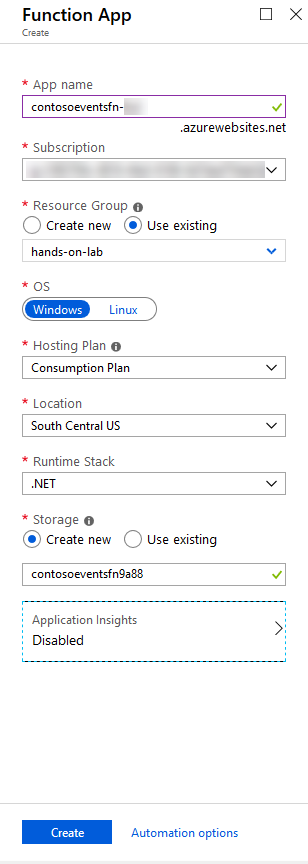
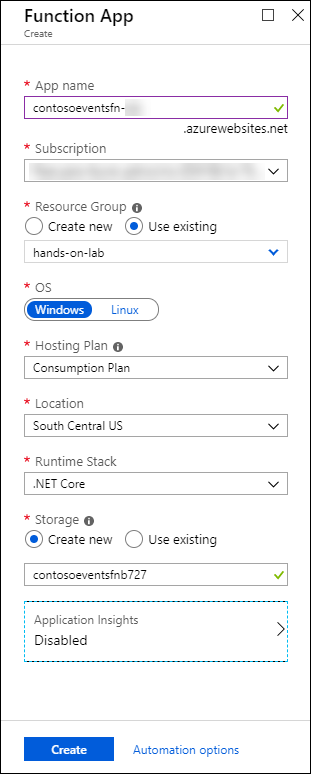
Added the Azure Function set up exercise

diff --git a/Hands-on lab/HOL step-by-step - Microservices architecture - Developer edition.md b/Hands-on lab/HOL step-by-step - Microservices architecture - Developer edition.md
@@ -266,7 +266,7 @@ In this task, you will provision a Function App using a Consumption Plan. By usi
 
     f.  Location: Select the same location as the hands-on-lab resource group.
 
-    g.  Runtime Stack: **.NET**
+    g.  Runtime Stack: **.NET Core**
 
     h.  Storage: Leave Create new selected, and accept the default name.
 
@@ -434,7 +434,7 @@ In this exercise, you will create the Docker images for each of the microservice
 
 1.  In Visual Studio, open the Dockerfile located in the ContosoEvents.Api.Events project.
 
-2.  The Dockerfile contains all the required steps to build the Docker image for the Events microservice.  As you can see in the first line of code, it is based on the mcr.microsoft.com/dotnet/core/aspnet:2.2-stretch-slim Linux-based Docker image.  In the other hand, it uses the mcr.microsoft.com/dotnet/core/sdk:2.2-stretch image to compile and publish the Events microservice project.
+2.  The Dockerfile contains all the required steps to build the Docker image for the Events microservice.  As you can see in the first line of code, it is based on the mcr.microsoft.com/dotnet/core/aspnet:2.2-stretch-slim Linux-based Docker image.  On the other hand, it uses the mcr.microsoft.com/dotnet/core/sdk:2.2-stretch image to compile and publish the Events microservice project.
 
 3.  Open the Dockerfile located in the ContosoEvents.Api.Orders project.
 
@@ -579,7 +579,125 @@ In this exercise, you will publish the Service Fabric Application to the Azure c
 
 4.  From the Visual Studio output window, validate that the deployment has completed successfully before moving on to the next task.
 
-### Task 7: Test the Events microservice by using Swagger
+## Exercise 5: Set up the Function
+
+### Task 1: Set up the function
+
+In this task, you will create a function that will be triggered by the externalization queue we created for the app. Each order that is deposited to the queue by the Orders microservice  will trigger the ProcessOrderExternalizations function. The function then persists the order to the Orders container of the Cosmos DB instance.
+
+1.  There appears to be an issue with Azure Functions detecting Storage accounts, so before creating your function, you will manually add your Storage account connection string to the Application Settings for your Function App.
+
+2.  In the Azure portal, browse to the Storage Account you created in Exercise 1, Step 5, then select Access keys under Settings on the side menu, and copy the key1 Connection String value, as you did previously.
+
+    ![In the Azure Portal, under Settings, Access keys is circled. Under Default keys, the key 1 connection string and its copy button are circled.](media/image102.png "Azure Portal")
+
+3.  Now, browse to the Function App you created in Exercise 1, Step 4.
+
+4.  Select your Function App in the side menu, then select Configuration under Configured features.
+
+    ![In the Function Apps pane, in the left column, contosoeventsfn-SUFFIX is circled. In the right, Overview column, under Configured features, Application settings is circled.](media/image103.png "Function Apps pane")
+
+5.  On the Application Settings tab, select **+New application setting**, then enter **contosoeventsstore** in the name textbox, and paste the key1 Connection String value you copied from your Storage account into the value textbox.
+
+    ![On the Application settings tab, contosoeventsstore and its corresponding connection string value are circled. At the bottom, the New application setting button is circled.](media/image104.png "Application settings tab")
+
+6.  Scroll back to the top of the Application Settings tab, and select Save to apply the change.
+
+    ![Screenshot of the Save button](media/image105.png "Save button")
+
+7.  From the menu, place your mouse cursor over Functions, then select the + to the side of Functions.
+
+    ![In the Function Apps section, Functions is selected, and the Plus symbol to its right is circled.](media/image106.png "Function Apps section")
+
+8.  Select **In-portal** as the development environment in the getting started blade, and select the **Continue** button.
+
+    ![In the getting started Choose a Development Environment step, In-portal is circled](media/create-function-choose-env.png "Getting started page")
+    
+
+9.  Select **More templates** and then select the **Finish and view templates** button.
+
+    ![More templates is circled and the Finish and view templates button is selected.](media/view-more-templates.png "View more function templates")
+
+10. Select **Azure Queue Storage trigger** and then select install when the warning that extensions are required is displayed.
+
+    ![Azure Queue Storage is circled and Install is selected within the extensions required warning screen.](media/install-extensions-warning.png "Install Queue Storage Extensions")
+
+    a. Continue to install any additional extensions required.
+
+11.  In the New Function blade, enter the following:
+    
+   a.  Name: **ProcessOrderExternalizations**
+    
+   b.  Queue name: **contosoevents-externalization-requests**
+
+   c.  Storage account connection: Select **contosoeventsstore**
+   
+   d.  Select **Create**
+    
+![The values above are entered into the Azure Queue Storage trigger settings.](media/create-queue-storage-trigger.png  "Queue trigger settings")
+
+12. Under the ProcessOrderExternalizations function, select **Integrate**.
+
+    a. On the Integrate screen, set Message parameter name to **orderItem**
+
+    b. Select **Save**.
+
+    ![The Message parameter name is set to orderItem and Save is circled. ](media/integrate-screen.png "Integrate screen")
+
+13. While still on the Integrate screen, select **+New Output**.
+
+    ![On the Integrate Screen, under Outputs, + New Output is circled.](media/image117.png "Integrate Screen")
+
+14. In the outputs box, locate and select **Azure Cosmos DB**, then choose **Select**.
+
+    ![In the Azure Cosmos DB output window, next to the Azure Cosmos DB account connection field, the Select button is circled.](media/image118.png "Azure Cosmos DB output window")
+
+ > **Note**: If prompted to install extensions, Select **Install** and wait for the extensions to finish installing.
+
+15. On the Azure Cosmos DB output screen, enter the following:
+
+    a.  Document parameter name: Enter **orderDocument**
+    
+    b.  Use function return value: Leave unchecked.
+
+    c.  Collection Name: Enter **Orders**
+
+    d.  Partition key: Leave empty.
+
+    e.  Database name: Enter **TicketManager**
+
+    f.  Azure Cosmos DB account connection: Select **new** next to the text box, and select the Cosmos DB you created in Exercise 1, Task 6.
+    
+    g.  Collection throughput: Leave empty.
+
+    ![Screenshot of Azure Cosmos DB output window with the values specified above entered into the fields.](media/cosmos-db-output-window.png "Azure Cosmos DB output window")
+   
+    f.  Select **Save**. You should now see an Azure Queue Storage trigger and an Azure Cosmos DB output on the Integrate screen.
+
+    ![In the Integrate window, the fields under both Triggers and Outputs are circled. ](media/image120.png "Integrate window")
+
+16. Next, select your function from the side menu.
+
+    ![Under Functions, ProcessOrderExternailizations is circled.](media/image121.png "Functions section")
+
+17. Now, you will retrieve the code for the function from a file in Visual Studio.
+
+18. In Visual Studio, go to Solution Explorer, and locate ProcessTicketOrderExternalizationEvent.cs in the Azure Functions folder.
+
+    ![In Solution Explorer, under Azure Functions, ProcessTicketOrderExternalizationEvent.cs is circled.](media/image122.png "Solution Explorer")
+
+19. Select all the code in that file (CTRL+A) and copy (CTRL+C) it.
+
+20. Return to your function's page in the Azure portal, and replace the code in the run.csx block with the code you just copied from Visual Studio. The run.csx code should now look like the following. Note: The ProcessOrdersExternalization function will enable you to process another order, and see that it is saved to the Orders collection of the Cosmos DB.
+
+    ![Code that was copied from Visual Studio displays in the Run.csx block.](media/image123.png "Azure Portal, Run.csx block")
+
+21. Select **Save**
+
+## Exercise 6: Placing ticket orders
+
+
+### Task 1: Test the Events microservice by using Swagger
 
 In this task, you will test the events retrieval from the application deployed in the hosted Service Fabric Cluster.
 
@@ -595,7 +713,7 @@ In this task, you will test the events retrieval from the application deployed i
 
     ![On the Swagger Endpoint webpage for Contoso Events API - Events, Execute button is circled.](media/image137.png "Swagger Endpoint webpage")
 
-### Task 8: Test the Orders microservice by using Swagger
+### Task 2: Test the Orders microservice by using Swagger
 
 In this task, you will test the orders creation from the application deployed in the hosted Service Fabric Cluster.
 
@@ -636,7 +754,7 @@ In this task, you will test the orders creation from the application deployed in
     > Note: In order to write to the Cosmos DB database, the Azure Function must be running.
 
 
-## Exercise 5: API Management
+## Exercise 7: API Management
 
 Duration: 15 minutes
 
@@ -686,7 +804,7 @@ In this task, you will import the Events API description to your API Management 
 
     > **Note**: After saving, notice the URL under "Base URL". You will use this URL in your website configuration in the next exercise.
     
-### Task 2:  Import Orders API
+### Task 2: Import Orders API
 
 In this task, you will import the Orders API description to your API Management service to create an endpoint.
 
@@ -772,7 +890,7 @@ In this task, you will provide the API Management key in a setting for the Funct
 5.  Select **Save** to apply the change.
 
 
-## Exercise 6: Configure and publish the web application
+## Exercise 8: Configure and publish the web application
 
 Duration: 15 minutes
 

diff --git a/Hands-on lab/HOL step-by-step - Microservices architecture - Infrastructure edition.md b/Hands-on lab/HOL step-by-step - Microservices architecture - Infrastructure edition.md
@@ -473,7 +473,7 @@ In this exercise, you will create the Docker images for each of the microservice
 
 1.  In Visual Studio, open the Dockerfile located in the ContosoEvents.Api.Events project.
 
-2.  The Dockerfile contains all the required steps to build the Docker image for the Events microservice.  As you can see in the first line of code, it is based on the mcr.microsoft.com/dotnet/core/aspnet:2.2-stretch-slim Linux-based Docker image.  In the other hand, it uses the mcr.microsoft.com/dotnet/core/sdk:2.2-stretch image to compile and publish the Events microservice project.
+2.  The Dockerfile contains all the required steps to build the Docker image for the Events microservice.  As you can see in the first line of code, it is based on the mcr.microsoft.com/dotnet/core/aspnet:2.2-stretch-slim Linux-based Docker image.  On the other hand, it uses the mcr.microsoft.com/dotnet/core/sdk:2.2-stretch image to compile and publish the Events microservice project.
 
 3.  Open the Dockerfile located in the ContosoEvents.Api.Orders project.
 
